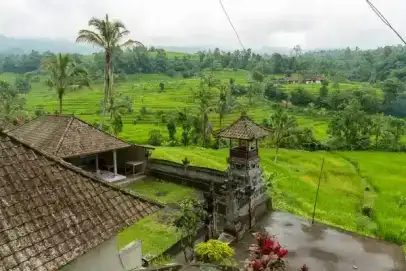
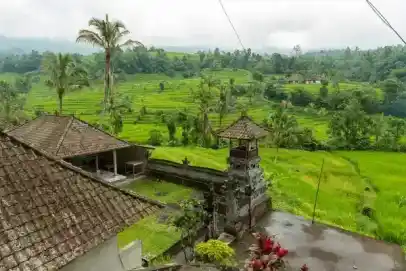
changes

diff --git a/assets/js/main.js b/assets/js/main.js
@@ -4,7 +4,9 @@ const triponScrambleHeroHeadline = (heading) => {
     return;
   }
 
-  const reduceMotion = window.matchMedia("(prefers-reduced-motion: reduce)").matches;
+  const reduceMotion =
+    window.matchMedia("(prefers-reduced-motion: reduce)").matches ||
+    window.matchMedia("(max-width: 768px)").matches;
   const originalHtml = heading.innerHTML;
   const parseSegments = (root) => {
     const segments = [];
@@ -250,7 +252,9 @@ window.triponAnimateHeroDestinationLine = triponAnimateHeroDestinationLine;
       return controller;
     }
 
-    const reduceMotion = g.matchMedia("(prefers-reduced-motion: reduce)").matches;
+    const reduceMotion =
+      g.matchMedia("(prefers-reduced-motion: reduce)").matches ||
+      g.matchMedia("(max-width: 768px)").matches;
 
     const updatePointer = (clientX, clientY) => {
       const rect = ambient.getBoundingClientRect();
@@ -3143,8 +3147,10 @@ const triponInitMain = () => {
         { src: "assets/images/home2.webp", alt: "Bali cliffside coast" },
         { src: "assets/images/home3.webp", alt: "Tropical Bali island view" }
       ];
+      const isMobileViewport = window.matchMedia("(max-width: 768px)").matches;
       const FADE_DURATION_MS = 700;
-      const SLIDE_INTERVAL_MS = 4200;
+      const SLIDE_INTERVAL_MS = isMobileViewport ? 9000 : 5200;
+      const START_DELAY_MS = isMobileViewport ? 14000 : 7000;
       let activeSlideIndex = 0;
       let activeLayerIndex = 0;
       let isSlideTransitioning = false;
@@ -3196,13 +3202,15 @@ const triponInitMain = () => {
       };
 
       Promise.all(heroSlides.map(preloadSlide)).then(() => {
-        window.setInterval(() => {
-          if (isSlideTransitioning) {
-            return;
-          }
-          const nextIndex = (activeSlideIndex + 1) % heroSlides.length;
-          paintHeroSlide(nextIndex);
-        }, SLIDE_INTERVAL_MS);
+        window.setTimeout(() => {
+          window.setInterval(() => {
+            if (isSlideTransitioning) {
+              return;
+            }
+            const nextIndex = (activeSlideIndex + 1) % heroSlides.length;
+            paintHeroSlide(nextIndex);
+          }, SLIDE_INTERVAL_MS);
+        }, START_DELAY_MS);
       });
     }
 

diff --git a/assets/css/home-responsive.css b/assets/css/home-responsive.css
@@ -270,6 +270,20 @@
   }
 }
 
+@media (max-width: 768px) {
+.bento-cell__glow,
+  .family-tour-bento .bento-cell::before,
+  .family-tour-bento .bento-cell::after,
+  .family-tour-section--premium.is-revealed .bento-cell--dive .bento-cell__media {
+    animation: none;
+  }
+
+.family-tour-bento .bento-cell,
+  .family-tour-bento .bento-cell__media img {
+    transition: none;
+  }
+}
+
 @media (min-width: 1100px) {
 .reasons {
     width: min(var(--why-choose-container), 100%);

diff --git a/index.html b/index.html
@@ -73,7 +73,7 @@
 
 <body data-tripon-nav="home" class="has-tripon-site-ambient">
   <div class="page">
-    <div id="tripon-navbar-zone" class="tripon-include-mount" style="display:contents"></div>
+    <div id="tripon-navbar-zone" class="tripon-include-mount" style="display:block;min-height:72px"></div>
 
     <main class="home-screen" id="homeScreen">
 
@@ -171,7 +171,7 @@
                 <div class="place-item__panel place-item__panel--see-all">
                   <div class="place-see-hero">
                     <img class="place-see-hero__img" src="assets/images/location2.webp"
-                      srcset="assets/images/location2-card.webp 406w, assets/images/location2.webp 900w"
+                      srcset="assets/images/location2-card.webp 406w"
                       sizes="203px" alt="" loading="lazy" decoding="async" />
                     <div class="place-see-badge" aria-hidden="true">
                       <span class="place-see-badge__flower"></span>
@@ -218,7 +218,7 @@
               <article class="place-item place-item--3d" data-location-link="/locations/bali/ubud.html">
                 <div class="place-item__panel">
                   <img class="place-item__img" src="assets/images/location1.webp"
-                    srcset="assets/images/location1-card.webp 406w, assets/images/location1.webp 900w"
+                    srcset="assets/images/location1-card.webp 406w"
                     sizes="203px" alt="" loading="lazy" decoding="async" />
                   <div class="place-item__overlay" aria-hidden="true"></div>
                   <div class="place-item__glow" aria-hidden="true"></div>
@@ -238,7 +238,7 @@
                 data-adventure-start>
                 <div class="place-item__panel">
                   <img class="place-item__img" src="assets/images/location2.webp"
-                    srcset="assets/images/location2-card.webp 406w, assets/images/location2.webp 900w"
+                    srcset="assets/images/location2-card.webp 406w"
                     sizes="203px" alt="" loading="lazy" decoding="async" />
                   <div class="place-item__overlay" aria-hidden="true"></div>
                   <div class="place-item__glow" aria-hidden="true"></div>

diff --git a/assets/css/home-sections.css b/assets/css/home-sections.css
@@ -90,6 +90,7 @@
   left: 86px;
   color: #ffffff;
   z-index: 3;
+  min-height: 232px;
 }
 
 .hero .search-box,
@@ -116,6 +117,10 @@
   font-weight: 400;
   letter-spacing: 0.2px;
   white-space: nowrap;
+}
+
+.hero-actions {
+  min-height: 44px;
 }
 
 .hero-validation-tooltip {
@@ -927,6 +932,7 @@ body[data-tripon-nav="home"] .home-screen--has-ambient > .home-ambient .home-amb
     0 0 80px rgba(16, 185, 129, 0.08);
   overflow: hidden;
   isolation: isolate;
+  contain: layout paint;
 }
 
 .family-tour-ambient {

diff --git a/assets/js/includes.js b/assets/js/includes.js
@@ -453,13 +453,11 @@
     const hasContactPage =
       document.body?.classList.contains("contact-page") ||
       !!document.querySelector(".contact-screen") ||
-      /\/company\/contact-us\.html?$/i.test(path) ||
-      isHomeRoute;
+      /\/company\/contact-us\.html?$/i.test(path);
     const hasPeopleReviewsPage =
       document.body?.classList.contains("reviews-page") ||
       !!document.querySelector(".people-reviews-screen") ||
-      /\/company\/people-reviews\.html?$/i.test(path) ||
-      isHomeRoute;
+      /\/company\/people-reviews\.html?$/i.test(path);
     const isPackageDetailsPage =
       document.body?.classList.contains("package-details-page") ||
       /\/packages\/[^/]+\/[^/]+\/[^/]+\.html?$/i.test(path);